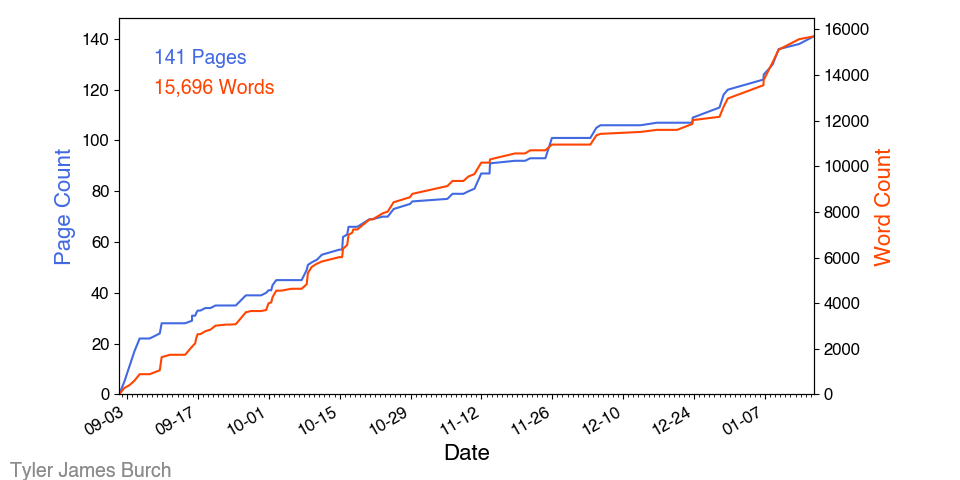
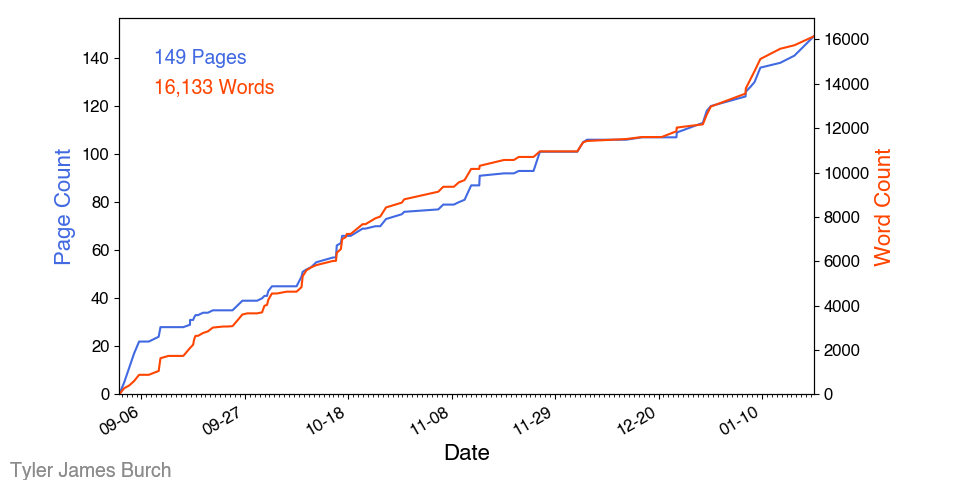
Add 2x2d method and appendix

diff --git a/appendices/app4_2x2d.tex b/appendices/app4_2x2d.tex
@@ -1,0 +1,174 @@
+\chapter{2x2D Sideband Method} \label{app:2x2d}
+
+The 2x2D sideband method\footnote{This method is described in detail in Reference \cite{2x2d-definition}} defines a \LoosePrime identification preselection, using all the standard photon ID shower shape cuts, except on $F_{side}$, $w_{s3}$, $\Delta E$, and $E_{ratio}$. Events that pass this criteria are input into the 2x2D method, and split into 16 orthogonal subsamples, based on if each photon passes or fails tight identification criteria or isolation criteria. This creates 15 background regions where one or both of the photons fails one or both of the identification and isolation criteria. The signal region is the category where both photons pass both identification and isolation criteria. In each region, the yield can be expressed in terms of signal and background yields for the whole L'L' sample, along with identification and isolation efficiencies for photons and jets and the correlations between the isolation distributions of the two fake photons in dijet events as follows:
+
+\begin{eqnarray}
+    N_{AA} &=& \WyyLL \eIone \eTone \eItwo \eTtwo \nonumber \\
+    &+& \WyjLL \eIone \eTone \fIptwo \fTtwo \xijtwo \nonumber \\
+    &+& \WjyLL \eItwo \eTtwo \fIone \fTone \xijone  \nonumber \\
+    &+& \WjjLL \fIpone \fTpone \fIptwo \fTptwo \xiIjj \xijone \xijtwo
+  \end{eqnarray}
+  
+  \begin{eqnarray}
+    N_{AB} &=& \WyyLL \eIone \eTone \left(1-\eItwo\right) \eTtwo \nonumber \\
+    &+& \WyjLL\eIone \eTone   \left(1-\fIptwo \xijtwo\right)\fTtwo   \nonumber \\
+    &+& \WjyLL\fIone \fTone \left(1-\eItwo \right)\eTtwo  \xijone  \nonumber \\
+    &+& \WjjLL\fIpone \fTpone\left(1-\fIptwo\xiIjj \xijtwo\right) \fTptwo\xijone
+  \end{eqnarray}
+  
+  \begin{eqnarray}
+    N_{BA} &=& \WyyLL \left(1-\eIone\right) \eTone \eItwo \eTtwo \nonumber \\
+    &+& \WyjLL\left(1-\eIone \right)\eTone \fIptwo \fTtwo  \xijtwo   \nonumber \\
+    &+& \WjyLL \left(1-\fIone  \xijone\right)\fTone \eItwo \eTtwo   \nonumber \\
+    &+& \WjjLL\left(1-\fIpone\xiIjj\xijone\right) \fTpone \fIptwo \fTptwo\xijtwo
+  \end{eqnarray}
+  
+  \begin{eqnarray}
+    N_{BB} &=& \WyyLL \left(1-\eIone\right)\left(1-\eItwo\right)\eTone \eTtwo  \nonumber \\
+    &+& \WyjLL \left(1-\eIone\right)\left(1 \fIptwo \xijtwo\right)\eTone \fTtwo    \nonumber \\
+    &+& \WjyLL\left(1-\eItwo\right)\left(1-\fIone \xijone\right)\eTtwo \fTone    \nonumber \\
+    &+& \WjjLL\left(1-\fIpone\xijone-\fIptwo\xijtwo+\fIpone\fIptwo\xiIjj \xijone\xijtwo\right)\fTpone\fTptwo
+  \end{eqnarray}
+  
+  \begin{eqnarray}
+    N_{AC} &=& \WyyLL  \eIone \eTone \eItwo\left(1-  \eTtwo\right) \nonumber \\
+    &+& \WyjLL\eIone \eTone \fIptwo    \left(1-\fTtwo \xijtwo  \right) \nonumber \\
+    &+& \WjyLL \fIone \fTone \eItwo  \left(1-\eTtwo   \right)\xijone \nonumber \\
+    &+& \WjjLL\fIpone\fTpone \fIptwo\left(1- \fTptwo\xijtwo\right)\xiIjj \xijone
+  \end{eqnarray}
+  
+  \begin{eqnarray}
+    N_{CA} &=& \WyyLL \eIone \left(1-\eTone\right) \eItwo \eTtwo \nonumber \\
+    &+& \WyjLL\eIone \left(1-\eTone   \right)\fIptwo \fTtwo   \xijtwo  \nonumber \\
+    &+& \WjyLL \fIone  \left(1-\fTone \xijone  \right) \eItwo \eTtwo\nonumber \\
+    &+& \WjjLL\fIpone\left(1-\fTpone\xijone\right)\fIptwo \fTptwo\xiIjj\xijtwo
+  \end{eqnarray}
+  
+  \begin{eqnarray}
+    N_{AD} &=& \WyyLL \eIone \eTone \left(1-\eItwo\right)\left(1-\eTtwo\right) \nonumber \\
+    &+& \WyjLL\eIone \eTone  \left(1-\fIptwo  -\fTtwo  +\fIptwo\fTtwo   \xijtwo  \right)\nonumber \\
+    &+& \WjyLL \fIone \fTone \xijone \left(1-\eItwo\right)\left(1-\eTtwo\right) \nonumber \\
+    &+& \WjjLL\xijone\fIpone \fTpone \left(1-\xiIjj\fIptwo- \fTptwo+\fIptwo \fTptwo\xijtwo\xiIjj\right)
+  \end{eqnarray}
+  
+  \begin{eqnarray}
+    N_{DA} &=& \WyyLL \left(1- \eIone\right)\left(1-\eTone\right)\eItwo \eTtwo \nonumber \\
+    &+& \WyjLL  \left(1-\eIone\right)\left(1-\eTone\right)\fIptwo \fTtwo\xijtwo \nonumber \\
+    &+& \WjyLL  \left(1-\fIone-\fTone  +\fIone \fTone  \xijone  \right) \eItwo \eTtwo\nonumber \\
+    &+& \WjjLL\left(1- \fIpone\xiIjj-\fTpone+ \fIpone\fTpone\xijone\xiIjj\right)\fIptwo \fTptwo\xijtwo
+  \end{eqnarray}
+  
+  \begin{eqnarray}
+    N_{BC} &=& \WyyLL \left(1- \eIone\right) \eTone \eItwo \left(1- \eTtwo\right) \nonumber \\
+    &+& \WyjLL\left(1-\eIone   \right)\eTone \fIptwo  \left(1-\fTtwo \xijtwo  \right)  \nonumber \\
+    &+& \WjyLL \left(1-\fIone  \xijone\right) \fTone \eItwo\left(1-\eTtwo   \right)  \nonumber \\
+    &+& \WjjLL\left(1-\fIpone\xiIjj\xijone\right) \fTpone \fIptwo \left(1-  \fTptwo\xijtwo\right)
+  \end{eqnarray}
+  
+  \begin{eqnarray}
+    N_{CB} &=& \WyyLL \eIone\left(1-  \eTone\right) \left(1- \eItwo\right) \eTtwo  \nonumber \\
+    &+& \WyjLL\eIone\left(1-\fIptwo   \xijtwo\right) \left(1-\eTone \right) \fTtwo  \nonumber \\
+    &+& \WjyLL \fIone \left(1-\eItwo   \right) \left(1-\fTone \xijone  \right)\eTtwo \nonumber \\
+    &+& \WjjLL\fIpone \left(1- \fTpone \xijone\right) \left(1-\fIptwo\xiIjj \xijtwo\right) \fTptwo
+  \end{eqnarray}
+  
+  \begin{eqnarray}
+    N_{CC} &=& \WyyLL \eIone \left(1-\eTone\right)\eItwo\left(1-\eTtwo\right) \nonumber \\
+    &+& \WyjLL\eIone\left(1-\eTone\right) \fIptwo   \left(1-\fTtwo \xijtwo\right) \nonumber \\
+    &+& \WjyLL \fIone  \left(1-\fTone \xijone\right) \eItwo\left(1-\eTtwo\right) \nonumber \\
+    &+& \WjjLL\fIpone\fIptwo\left(1-\fTpone\xijone-  \fTptwo\xijtwo+\fTpone \fTptwo\xijone\xijtwo\right)\xiIjj
+  \end{eqnarray}
+  
+  \begin{eqnarray}
+    N_{BD} &=& \WyyLL\left(1-\eIone\right)\eTone \left(1-\eItwo\right)\left(1-\eTtwo\right) \nonumber \\
+    &+& \WyjLL(\left(1-\eIone  \right)\eTone \left(1 -\fIptwo-\fTtwo + \fIptwo\fTtwo \xijtwo\right) \nonumber \\
+    &+& \WjyLL\left(1-\fIone \xijone\right)\fTone  \left(1-\eTtwo \right)\left(1-\eItwo\right)  \\
+    &+& \WjjLL\fTpone \left(1-\fIptwo -\fTptwo -\fIpone \xijone+\fIptwo\fTptwo \xijtwo+\fTptwo\fIpone \xijone+\fIptwo\fIpone \xiIjj\xijone-\fIpone\fIptwo\fTptwo \xiIjj\xijone\xijtwo\right) \nonumber
+  \end{eqnarray}
+  
+  \begin{eqnarray}
+    N_{DB} &=& \WyyLL \left(1-\eIone\right) \left(1-\eTone \right)\left(1-\eItwo  \right)\eTtwo \nonumber \\
+    &+& \WyjLL\left(1-\eIone\right)\left(1-\eTone \right)\left(1-\fIptwo\xijtwo\right)\fTtwo  \nonumber \\
+    &+& \WjyLL\left(1-\fIone-\fTone+\fIone\fTone \xijone \right) \left(1-\eItwo  \right)\eTtwo  \\
+    &+& \WjjLL\left(1-\fIpone -\fTpone -\fIptwo \xijtwo+\fIpone\fTpone \xijone+\fTpone\fIptwo \xijtwo+\fIpone\fIptwo \xiIjj\xijtwo-\fIpone\fTpone\fIptwo \xiIjj\xijone\xijtwo\right)\fTptwo \nonumber
+  \end{eqnarray}
+  
+  \begin{eqnarray}
+    N_{CD} &=& \WyyLL \eIone\left(1-\eTone\right) \left(1-\eItwo \right)\left(1-\eTtwo \right) \nonumber \\
+    &+& \WyjLL\eIone \left(1-\eTone  \right) \left(1-\fIptwo -\fTtwo +\fIptwo\fTtwo\xijtwo\right) \nonumber \\
+    &+& \WjyLL\fIone \left(1-\fTone \xijone\right)\left(1-\eItwo  \right)\left(1 -\eTtwo\right)  \\
+    &+& \WjjLL\fIpone \left(\left(1-\fTpone\xijone\right) \left(1-\fIptwo \xiIjj\right)-\fTptwo \left(1-\fTpone  \xijone\right) \left(1-\fIptwo\xijtwo \xiIjj\right)\right) \nonumber
+  \end{eqnarray}
+  
+  \begin{eqnarray}
+    N_{DC} &=& \WyyLL \eItwo \left(\left(1-\eTtwo  \right) \left(1-\eIone  \right)-\eTone \left(1-\eTtwo   \right) \left(1-\eIone   \right)\right) \nonumber \\
+    &+& \WyjLL\fIptwo \left(\left(1-\eIone  \right) \left(1-\fTtwo \xijtwo\right)-\eTone \left(1-\eIone   \right) \left(1-\fTtwo\xijtwo  \right)\right) \nonumber \\
+    &+& \WjyLL\eItwo \left(\left(1-\eTtwo  \right) \left(1-\fIone  \right)-\fTone \left(1-\fIone \xijone\right) \left(1-\eTtwo   \right)\right)  \\
+    &+& \WjjLL\left(\left(1-\fTptwo \xijtwo\right) \left(1-\fIpone\xiIjj\right)-\fTpone \left(1-\fTptwo  \xijtwo\right) \left(1-\fIpone \xijone \xiIjj\right)\right)\fIptwo \nonumber
+  \end{eqnarray}
+  
+  {\tiny
+  \begin{eqnarray}
+    N_{DD} &=& \WyyLL \left(1-\eTone-\eTtwo+\eTone \eTtwo  +\eItwo \left(1-\eTone-\eTtwo  +\eTone \eTtwo   \right)+\eIone \left(-\left(1-\eItwo  \right) \left(1-\eTone  \right)+\eTtwo \left(1-\eItwo   \right) \left(1-\eTone  \right)\right)\right)\nonumber \\
+    &+& \WyjLL\left(1-\eTone-\fTtwo+\eTone \fTtwo  +\fIptwo \left(1-\eTone-\fTtwo\xijtwo+\eTone \fTtwo \xijtwo  \right)+\eIone \left(\left(1-\eTone  \right)\left(1-\fIptwo  \right)+\fTtwo \left(1-\fIptwo   \xijtwo\right) \left(1-\eTone   \right)\right)\right) \nonumber \\
+    &+& \WjyLL\left(1-\eTtwo-\fTone+\eTtwo \fTone  +\eItwo \left(1-\fTone-\eTtwo  +\eTtwo \fTone   \right)+\fIone \left(\left(1-\eItwo  \right) \left(1-\fTone \xijone\right)+\eTtwo \left(1-\eItwo   \right) \left(1-\fTone \xijone  \right)\right)\right) \\
+    &+& \WjjLL\left(1-\fTpone-\fTptwo+\fTpone \fTptwo  +\fIptwo \left(1-\fTpone-\fTptwo \xijtwo+\fTpone \fTptwo \xijtwo  \right)+\fIpone \left(-\left(1-\fIptwo \xiIjj\right) \left(1-\fTpone\xijone\right)+\fTptwo \left(1-\fIptwo \xiIjj \xijtwo\right) \left(1-\fTpone \xijone
+    \right)\right)\right) \nonumber
+  \end{eqnarray}
+  }
+  
+  where
+  \begin{itemize}
+    \item \eIone and \eItwo are the efficiencies of the isolation criteria for the leading and subleading photons respectively
+    \item \eTone and \eTtwo are the \texttt{Tight} identification efficiencies for the leading and subleading photons respectively
+    \item \fIone and \fIptwo are the isolation fake rates for the jets in \yj and \jy events respectively
+    \item \fTone and \fTtwo are the \texttt{Tight} identification fake rates for the jets in \yj and \jy events respectively
+    \item \fIpone and \fIptwo are the isolation fake rates for the leading and subleading jets in \jj events
+    \item \fTpone and \fTptwo are the \texttt{Tight} identification fake rates for the leading and subleading jets in \jj events
+    \item \xijone and \xijtwo are the correlation between the identification and isolation fake rates for the leading and subleading jets in $jj$ events
+    \item \xiIjj is the isolation correlation factor between the jets in \jj events
+  \end{itemize}
+  
+  The 16 equations have 19 unknowns, six of which are constrained to a predetermined range:
+  \begin{itemize}
+    \item \eTone, \eTtwo, \eIone and \eItwo are are determined from Monte Carlo simulation of diphoton events (see Table~\ref{tab:2x2D_MC_inputs}).
+    \item \xijone and \xijtwo are constrained to the range $1\pm0.01$
+  \end{itemize}
+  
+  \begin{table}[tb]
+    \caption{Isolation and identification efficiencies for true photons used as input to the 2x2D sideband method for the measurement of the inclusive diphoton purity of the sample passing the full selection, for the various selections under study.
+             The efficiencies are determined with respect to the leading and subleading photon candidates of true diphoton events that pass the full selection except the isolation and tight identification criteria: the photons must instead pass the \LoosePrime identification requirements.
+             The uncertainty arises from the limited MC statistics.
+      \label{tab:2x2D_MC_inputs}}
+    \begin{center}
+      \begin{tabular}{@{}llclc@{}}
+        \hline
+        \hline
+        Selection &\multicolumn{2}{c}{Isolation} & \multicolumn{2}{c}{Identification}\\
+        \hline
+        \multirow{2}{*}{Low mass 0-tag}
+        & \eIone & $0.957\pm0.014$ & \eTone & $0.960\pm0.013$ \\
+        & \eItwo & $0.907\pm0.028$ & \eTtwo & $0.948\pm0.016$ \\[1mm]
+        \multirow{2}{*}{Low mass 1-tag}
+        & \eIone & $0.955\pm0.014$ & \eTone & $0.962\pm0.012$ \\
+        & \eItwo & $0.906\pm0.028$ & \eTtwo & $0.946\pm0.017$ \\[1mm]
+        \multirow{2}{*}{Low mass 2-tag}
+        & \eIone & $0.955\pm0.014$ & \eTone & $0.964\pm0.011$ \\
+        & \eItwo & $0.906\pm0.028$ & \eTtwo & $0.945\pm0.017$ \\[1mm]
+        \multirow{2}{*}{High mass 0-tag}
+        & \eIone & $0.961\pm0.012$ & \eTone & $0.962\pm0.011$ \\
+        & \eItwo & $0.912\pm0.025$ & \eTtwo & $0.949\pm0.015$ \\[1mm]
+        \multirow{2}{*}{High mass 1-tag}
+        & \eIone & $0.954\pm0.015$ & \eTone & $0.958\pm0.013$ \\
+        & \eItwo & $0.900\pm0.029$ & \eTtwo & $0.948\pm0.016$ \\[1mm]
+        \multirow{2}{*}{High mass 2-tag}
+        & \eIone & $0.960\pm0.015$ & \eTone & $0.972\pm0.010$ \\
+        & \eItwo & $0.907\pm0.029$ & \eTtwo & $0.943\pm0.018$ \\[1mm]
+        \hline
+        \hline
+      \end{tabular}
+    \end{center}
+  \end{table}
+  
+
+  The other 13 unknowns are the outputs of the 2x2D method, derived by performing a global minimization procedure. Using these outputs, the observed yield from \yy, $j\gamma$, $\gamma j$, and $jj$ events can be calculated for each signal and control region.

diff --git a/chapters/chapter5_yybb/yybb.tex b/chapters/chapter5_yybb/yybb.tex
@@ -290,7 +290,8 @@ In both the resonant and non-resonant analyses, a full signal+background fit is 
 
 \subsection{Background Composition}
 
-The \yy-continuum background contains contributions from both diphoton events, as well as those where jets fake photons, denoted $j\gamma$, $\gamma j$,  or $jj$, where the leading, subleading, or both photons have been misidentified jets, respectively. To establish the contributions of each of these sources, a 2x2D sideband method \cite{2x2d-sideband} is used
+The \yy-continuum background contains contributions from both diphoton events, as well as those where jets fake photons, denoted $j\gamma$, $\gamma j$, or $jj$, where the leading, subleading, or both photons have been misidentified jets, respectively. To establish the contributions of each of these sources, a 2x2D sideband method \cite{2x2d-sideband} is used. This method varies the photon identification and isolation criteria to create a signal region and 15 control regions, then expresses the yield, identification efficiency, and isolation efficiency for both photons and jets in each region. Using this, along with the correlations between isolation distributions, a global minimization procedure is used to calculate the \yy, $j\gamma$, $\gamma j$, and $jj$ yield separately for the 1 and 2 b-tag categories. In all cases, the \yy contribution is dominant, representing 80-90\% of events. This method is described in detail in Appendix \ref{app:2x2d}. 
+
 
 
 
@@ -339,11 +340,11 @@ Through this test, the first-order exponential function is found to have the low
 
 \begin{figure}[b!]
   \centering
-  \subfloat[Low mass, 1 b-tag]{\includegraphics[width=0.48\textwidth]{chapters/chapter5_yybb/images/parameterization/fit_exp_1taglow}}
-  \subfloat[High mass, 1 b-tag]{\includegraphics[width=0.48\textwidth]{chapters/chapter5_yybb/images/parameterization/fit_exp_1taghigh}}\\
-  \subfloat[Low mass, 2 b-tag]{\includegraphics[width=0.48\textwidth]{chapters/chapter5_yybb/images/parameterization/fit_exp_2taglow}}
-  \subfloat[High mass, 2 b-tag]{\includegraphics[width=0.48\textwidth]{chapters/chapter5_yybb/images/parameterization/fit_exp_2taghigh}}
-  \caption[Background-only fit to the $\myy$ distribution using the first-order exponential function]{Background-only fit to the $\myy$ distribution in the low and high-mass categories, 1 and 2 b-tag categories using the first-order exponential function.}
+  \subfloat[Low mass selection, 1 b-tag]{\includegraphics[width=0.48\textwidth]{chapters/chapter5_yybb/images/parameterization/fit_exp_1taglow}}
+  \subfloat[High mass selection, 1 b-tag]{\includegraphics[width=0.48\textwidth]{chapters/chapter5_yybb/images/parameterization/fit_exp_1taghigh}}\\
+  \subfloat[Low mass selection, 2 b-tag]{\includegraphics[width=0.48\textwidth]{chapters/chapter5_yybb/images/parameterization/fit_exp_2taglow}}
+  \subfloat[High mass selection, 2 b-tag]{\includegraphics[width=0.48\textwidth]{chapters/chapter5_yybb/images/parameterization/fit_exp_2taghigh}}
+  \caption[Background-only fit to the $\myy$ distribution using the first-order exponential function]{Background-only fit to the $\myy$ distribution using the low and high-mass selections, for the 1 and 2 b-tag categories using the first-order exponential function.}
   \label{fig:bkg-fit-myy}
 \end{figure}
 

diff --git a/variable_defs.tex b/variable_defs.tex
@@ -1,4 +1,7 @@
 \newcommand{\yy}{\ensuremath{\gamma\gamma}\xspace}
+\newcommand{\yj}{\ensuremath{\gamma j}\xspace}
+\newcommand{\jy}{\ensuremath{j \gamma}\xspace}
+\newcommand{\jj}{\ensuremath{jj}\xspace}
 \newcommand{\bb}{\ensuremath{b\bar{b}}\xspace}
 \newcommand{\btag}{\ensuremath{b}-tag\xspace}
 \newcommand{\bjet}{\ensuremath{b}-jet\xspace}
@@ -78,3 +81,32 @@
 \newcommand*{\Hzg}{\ensuremath{H \rightarrow Z\gamma}\xspace}
 \newcommand*{\Wjets}{\ensuremath{\Wboson\text{+\,jets}}\xspace}
 \newcommand*{\Zjets}{\ensuremath{\Zboson\text{\,+\,jets}}\xspace}
+
+
+
+%-------------------------------------------------------------------------------
+% 2x2d
+%-------------------------------------------------------------------------------
+\newcommand{\LoosePrime}{\texttt{Loose$^{\prime}$}\xspace}
+\newcommand{\LpLp}{\ensuremath{\mathrm{L}^{\prime}\mathrm{L}^{\prime}}\xspace}
+\newcommand{\WtotLL}{\ensuremath{W_{\mathrm{tot}}^{\mathrm{L}^{\prime}\mathrm{L}^{\prime}}}\xspace}
+\newcommand{\WyyLL}{\ensuremath{W_{\yy}^{\mathrm{L}^{\prime}\mathrm{L}^{\prime}}}\xspace}
+\newcommand{\WyjLL}{\ensuremath{W_{\yj}^{\mathrm{L}^{\prime}\mathrm{L}^{\prime}}}\xspace}
+\newcommand{\WjyLL}{\ensuremath{W_{\jy}^{\mathrm{L}^{\prime}\mathrm{L}^{\prime}}}\xspace}
+\newcommand{\WjjLL}{\ensuremath{W_{\jj}^{\mathrm{L}^{\prime}\mathrm{L}^{\prime}}}\xspace}
+\newcommand{\eIone}{\ensuremath{\varepsilon_{I1}}\xspace}
+\newcommand{\eItwo}{\ensuremath{\varepsilon_{I2}}\xspace}
+\newcommand{\eTone}{\ensuremath{\varepsilon_{T1}}\xspace}
+\newcommand{\eTtwo}{\ensuremath{\varepsilon_{T2}}\xspace}
+\newcommand{\fIone}{\ensuremath{f_{I1}}\xspace}
+\newcommand{\fItwo}{\ensuremath{f_{I2}}\xspace}
+\newcommand{\fTone}{\ensuremath{f_{T1}}\xspace}
+\newcommand{\fTtwo}{\ensuremath{f_{T2}}\xspace}
+\newcommand{\fIpone}{\ensuremath{f^{\prime}_{I1}}\xspace}
+\newcommand{\fIptwo}{\ensuremath{f^{\prime}_{I2}}\xspace}
+\newcommand{\fTpone}{\ensuremath{f^{\prime}_{T1}}\xspace}
+\newcommand{\fTptwo}{\ensuremath{f^{\prime}_{T2}}\xspace}
+\newcommand{\xijone}{\ensuremath{\xi_{j1}}\xspace}
+\newcommand{\xijtwo}{\ensuremath{\xi_{j2}}\xspace}
+\newcommand{\xiIjj}{\ensuremath{\xi_{Ijj}}\xspace}
+

diff --git a/thesisBurch.tex b/thesisBurch.tex
@@ -114,6 +114,7 @@
 \include{appendices/app1_mva}			% file with Appendix A contents
 \include{appendices/app2_datamc}
 \include{appendices/app3_vbfvariables}
+\include{appendices/app4_2x2d}
 
 \printglossary[title=Acronyms and Glossary of Terms,type=\acronymtype]
 \include{refs}		% file with references
